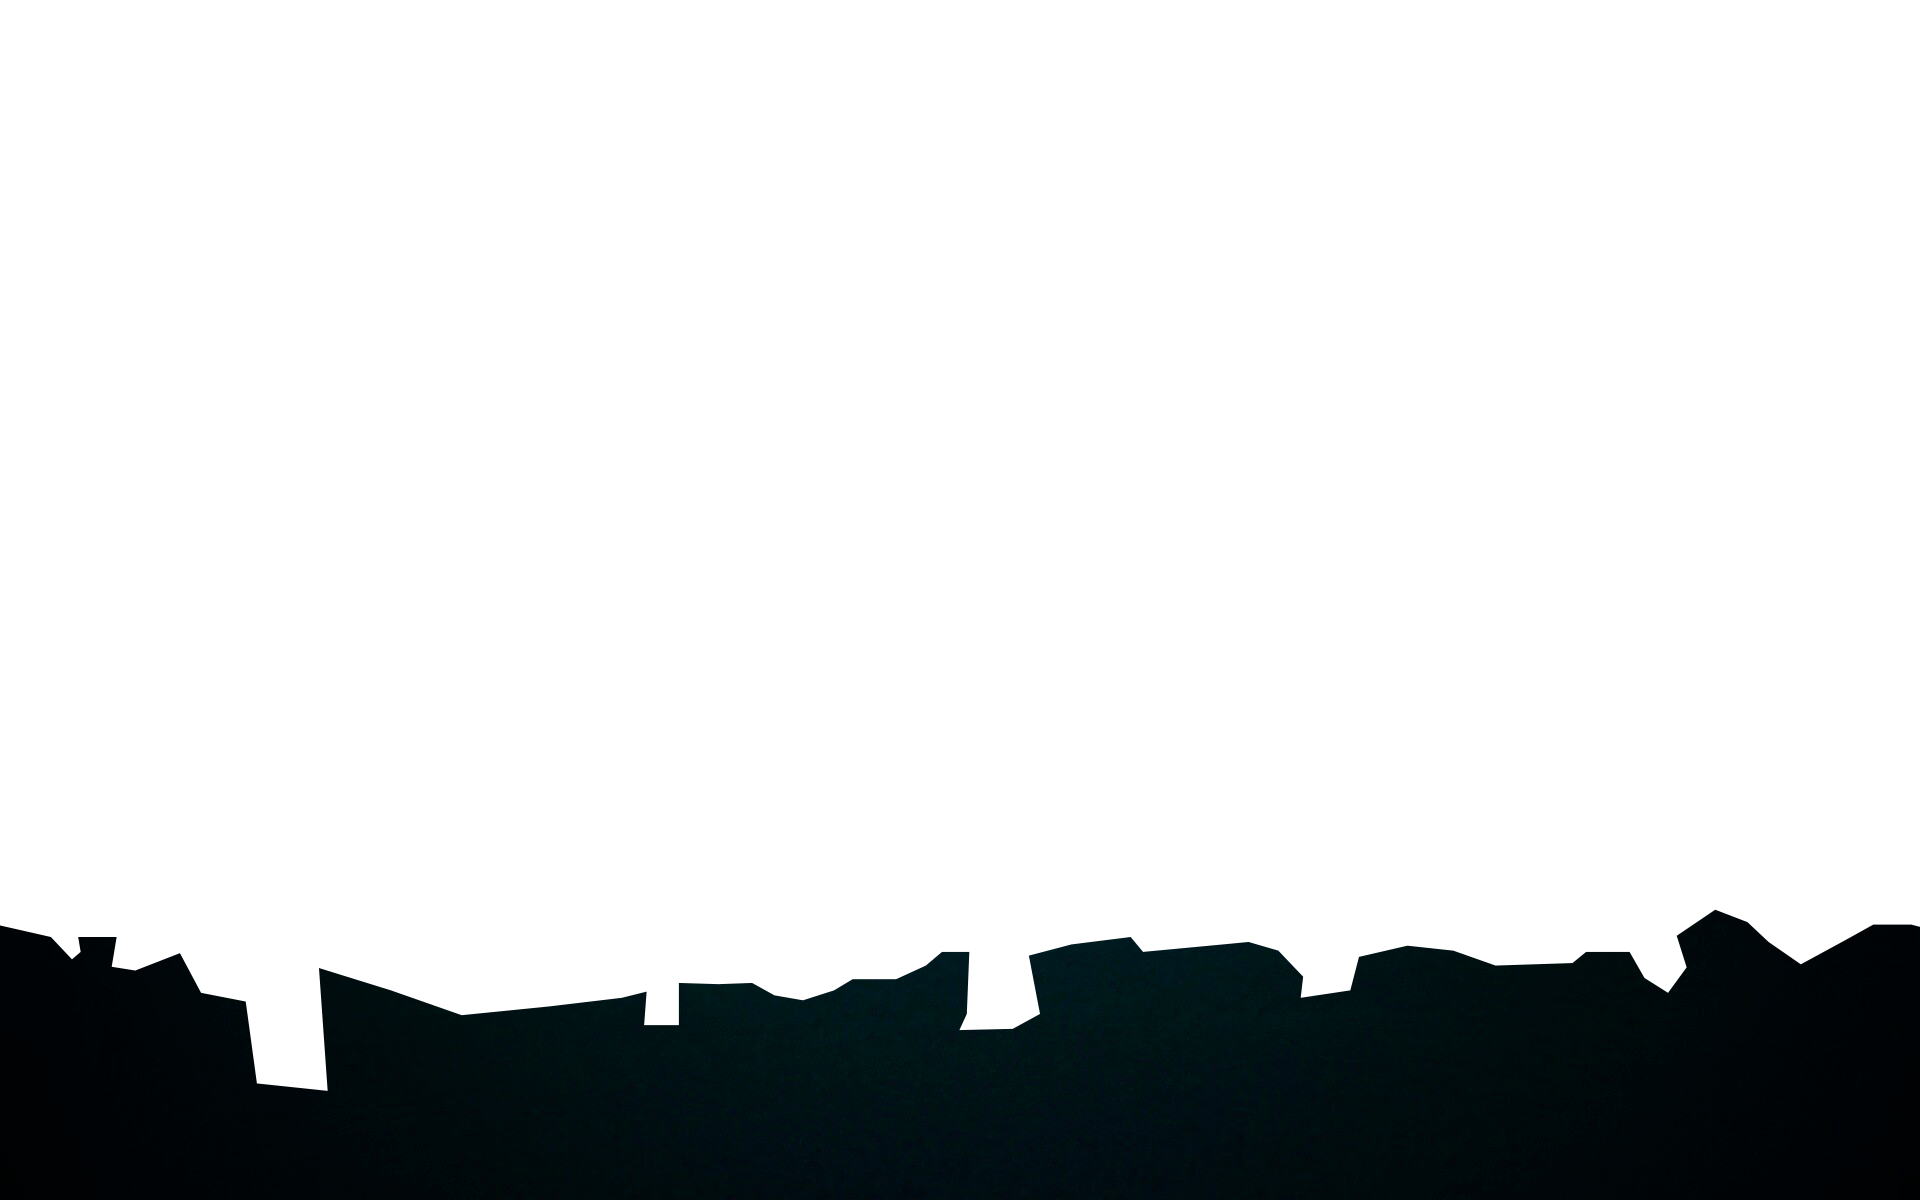
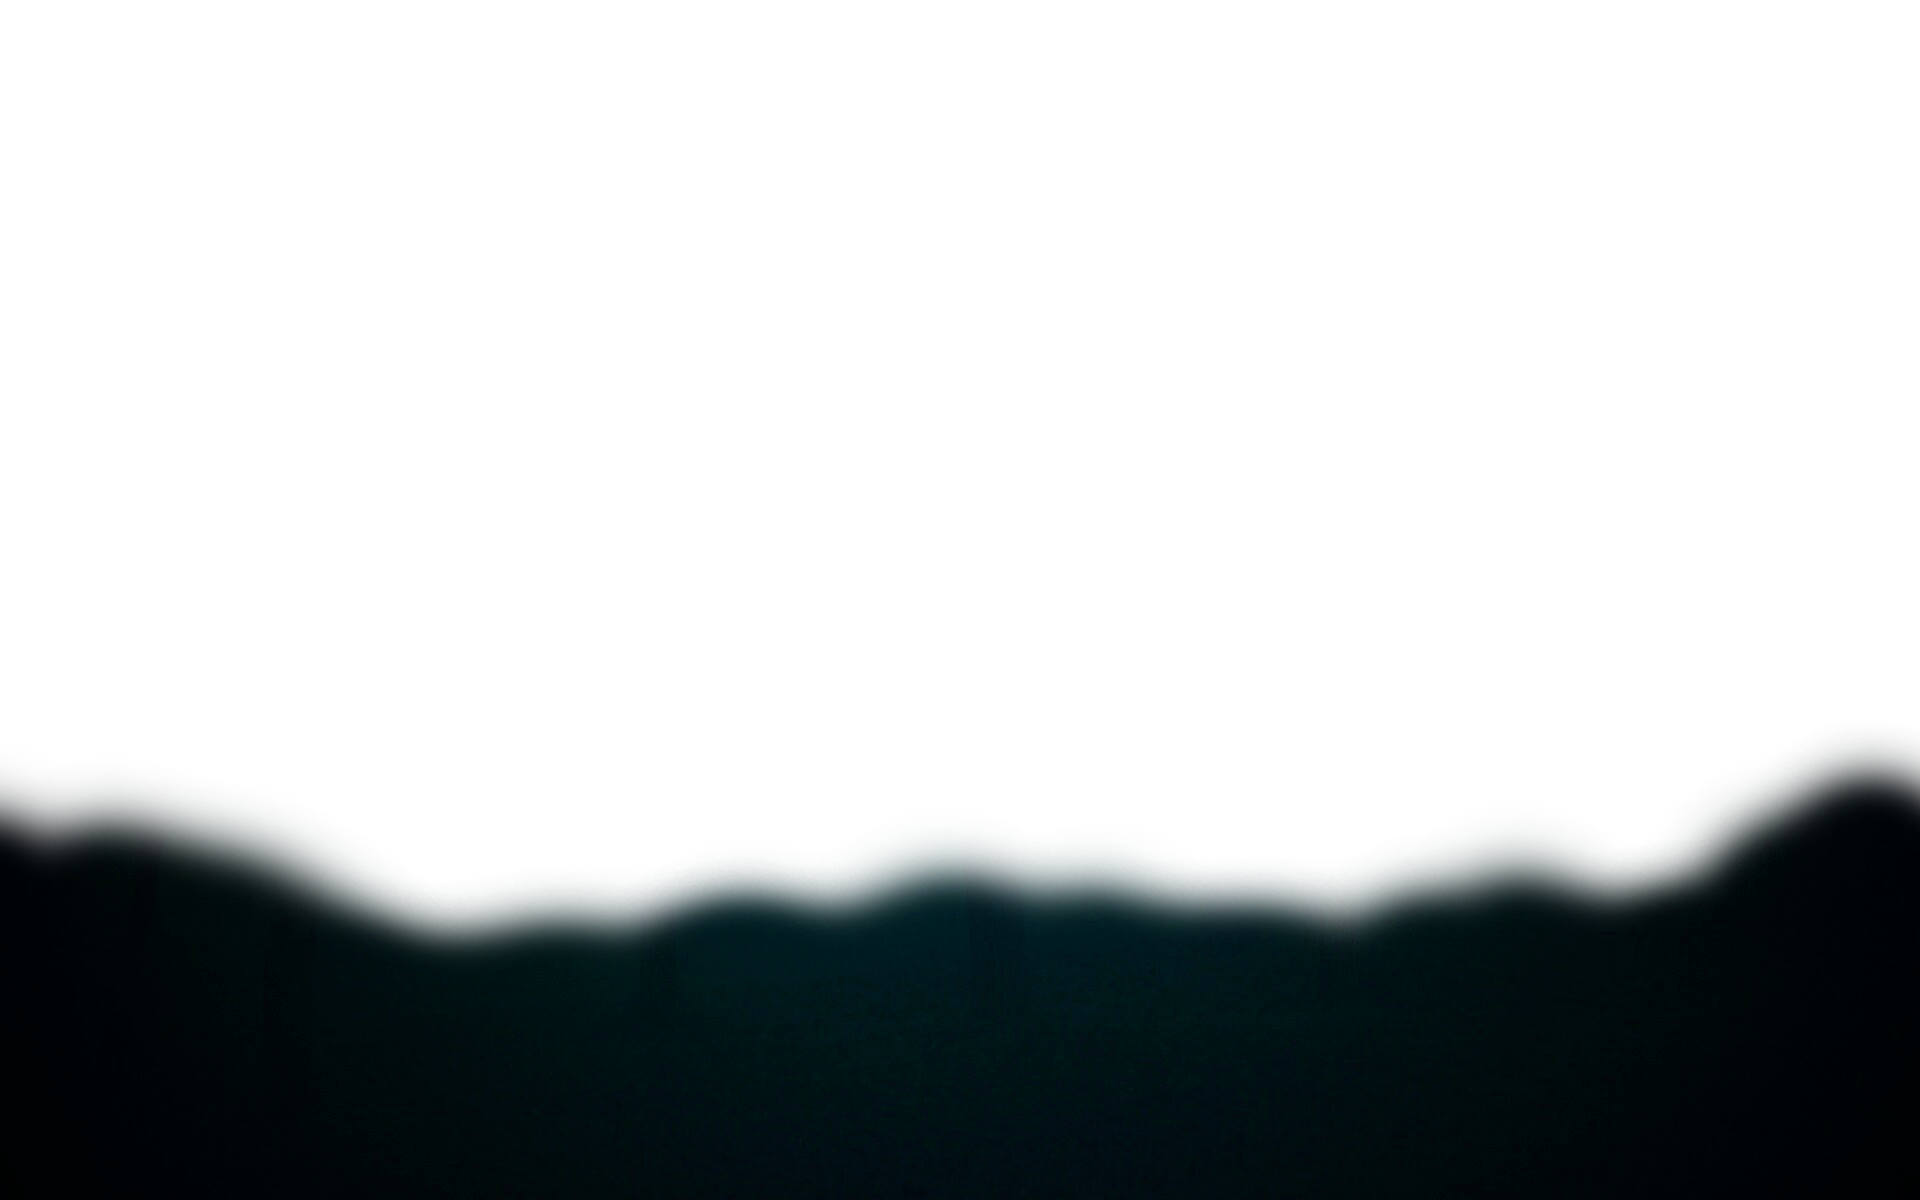
паралакс

Changed region(s): [[0.0, 0.6167, 1.0, 0.925]]

diff --git a/index.html b/index.html
@@ -71,7 +71,7 @@
 
 
 
-    <article class="main-article" style="background-image: url(img/dungeon.jpg);">
+    <article class="main-article" style="background-image: url(img/08.jpg);">
       <div class="main-article__content">
         <h2 class="main-article__header">To be continued</h2>
         <p class="main-article__paragraph"> Кракозябры на сайте — Lorem ipsum dolor sit amet consectetur adipisicing elit. Perspiciatis ducimus optio
@@ -79,33 +79,8 @@
           minus accusantium illo sapiente porro? Lorem, ipsum dolor sit amet consectetur adipisicing elit. Molestias
           dolorem quasi maxime tempora animi quisquam numquam nemo cumque aut id modi minus, impedit laborum. Dolorem
           natus quo laudantium rerum est. Lorem ipsum, dolor sit amet consectetur adipisicing elit. Quisquam molestiae,
-          sit quas debitis adipisci soluta beatae corrupti laudantium architecto perferendis, minima fugit quaerat
-          praesentium unde error repudiandae pariatur quis ex! Lorem ipsum dolor sit amet consectetur adipisicing elit.
-          Nisi est aspernatur, voluptates eos a vel tenetur, nobis porro distinctio harum sit possimus ducimus blanditiis
-          molestiae autem deleniti numquam. Alias, architecto.
-          Atque recusandae cum, delectus eveniet dignissimos, nulla minus magni voluptatem nisi, officiis quibusdam sint
-          autem repellendus ad hic eaque pariatur esse libero repudiandae sed ratione. Hic, culpa. Eos, minus
-          reprehenderit.
-          Nemo, reiciendis at dolorem earum autem qui beatae pariatur, inventore similique illum sapiente? Voluptate
-          nostrum sapiente voluptatum atque incidunt facere dignissimos praesentium dolore repellendus. Voluptas ex illo
-          cum culpa cumque.
-          Omnis iste tempore illum aspernatur blanditiis, suscipit provident culpa quisquam error, sunt deleniti laborum,
-          ratione necessitatibus vitae dolore reprehenderit voluptate nam corporis quos facere sit! Eos sunt ex vero nisi!
-          Eos quia, voluptate fugit cum corrupti ut, provident accusantium consectetur nostrum, dignissimos optio incidunt
-          enim non animi fuga quae ex dolore blanditiis laboriosam a harum accusamus illum esse quis. Sit.
-          Quia, consectetur velit labore dignissimos cumque earum. Aspernatur dignissimos, laboriosam accusantium vel
-          autem, omnis culpa expedita, tempore ipsa ut libero beatae. Velit hic nesciunt expedita natus? Error pariatur
-          est obcaecati?
-          Est hic molestias doloremque eum magnam iste illum, recusandae incidunt culpa tempora animi doloribus deserunt
-          nemo nesciunt quidem eos eveniet voluptates placeat minus maiores perferendis maxime consectetur quo. Minus,
-          deserunt!
-          Consectetur neque saepe minus vero ipsum inventore voluptatem porro perspiciatis, odio nihil ut sit tenetur
-          natus mollitia ullam sint ad cum eos voluptate magni soluta fugiat? Provident numquam aliquam porro.
-          Excepturi recusandae sed blanditiis est similique alias, enim, ex quae doloribus quam nam a dolorum nulla
-          adipisci nesciunt nostrum sit beatae tempora id placeat deserunt nobis. Reprehenderit necessitatibus soluta
-          totam.
-          Dicta commodi repudiandae fugit consequuntur porro eum, fuga pariatur quidem tempore, nulla iure aut corrupti
-          maxime optio soluta ex neque fugiat libero quasi labore cupiditate tempora? Quis soluta recusandae enim.</p>
+
+       </p>
       </div>
       <div class="copy">© Go5ling</div>
     </article>

diff --git a/css/style.scss b/css/style.scss
@@ -20,7 +20,7 @@
 :root {
 	--index: calc(1vw + 1vh);
 	--text: #e7e7e0;
-	--transition: transform .75s cubic-bezier(.075, .5, 0, 1);
+	--transition: transform 2.75s cubic-bezier(.075, .5, 0, 1);
 }
 
 p {
@@ -83,28 +83,30 @@ background:rgb(4, 0, 17);
 
 .main-header {
 	position: relative;
-  height: 100vh;
+  min-height: 100vh;
 display: flex;
 justify-content: center;
 align-items: center;
 margin-top: auto;
+margin-bottom: 50%;
 
-background-image: url('../img/gif.gif');
+background-image: url('../img/gifwhitebluelow.gif');
 background-size: 100% 100vh;
 
-will-change: transform;
 }
 .main-header::after {
 	content: '';
 	position: absolute;
 	z-index: 100;
-	width: 100%;
-	height: calc(var(--index) * 10);
-	background-image: url();
+width: 100%;
+
+	height: calc(var(--index) * 50);
+	background-image: url('../img/switchlayer.png');
 	background-size: cover;
 	background-repeat: no-repeat;
 	background-position: center;
-	bottom: calc(var(--index) * -4.5);
+	bottom: calc(var(--index) * -40);
+
 }
 
 
@@ -126,17 +128,20 @@ will-change: transform;
 	will-change: transform;
 	z-index: 2;
 	transition: var(--transition);
-  opacity: 70%;
+
 }
 .layers__base {
 	transform: translate3d(0, calc(var(--scrollTop) / 1.6), 0);
 	z-index: 0;
+	opacity: 85%;
 }
 .layers__middle {
 	transform: translate3d(0, calc(var(--scrollTop) / 2.5), 0);
+	opacity: 40%;
 }
 .layers__front {
-	transform: translate3d(0, calc(var(--scrollTop) / 5.7), 0);
+	transform: translate3d(0, calc(var(--scrollTop) / 3.7), 0);
+	opacity: 80%;
 
 
 }
@@ -147,11 +152,6 @@ will-change: transform;
 	z-index: 1;
 	transform: translate3d(0, calc(var(--scrollTop) / 2), 0);
 	transition: var(--transition);
-	will-change: transform;
-	text-transform: uppercase;
-	font-weight: 900;
-	color: var(--text);
-	text-shadow: 0 0 15px #9d822b;
 }
 .layers__title {
 	font-size: calc(var(--index) * 2.65);
@@ -163,21 +163,23 @@ will-change: transform;
 	margin-top: calc(var(--index) * -.75);
 }
 .main-article {
-	--main-article-transform: translate3d(0, calc(var(--scrollTop) / -7.5), 0);
+	--main-article-transform: translate3d(0, calc(var(--scrollTop) / -5.9), 0);
+
 	min-height: 100vh;
-	background-size: cover;
+	background-size: cover ;
 	background-position: center;
-	color: var(--text);
 	display: flex;
 	justify-content: center;
 	align-items: center;
 	position: relative;
 	text-align: center;
+
 	/* Update: */
-	top: -1px;
+	top: 1px;
 	z-index: 10;
 }
 .main-article__header {
+  margin-top:  calc(var(--index) * 19);
 	text-transform: uppercase;
 	font-size: calc(var(--index) * 1.8);
 	letter-spacing: calc(var(--index) / 7.5);
@@ -186,7 +188,7 @@ will-change: transform;
 	will-change: transform;
 }
 .main-article__paragraph {
-	max-width: calc(var(--index) * 30);
+	max-width: calc(var(--index) * 40);
 	font-size: calc(var(--index) * .9);
 	margin-top: calc(var(--index) / 1.25);
 	transform: var(--main-article-transform);

diff --git a/css/style.css b/css/style.css
@@ -8,7 +8,7 @@
 :root {
   --index: calc(1vw + 1vh);
   --text: #e7e7e0;
-  --transition: transform .75s cubic-bezier(.075, .5, 0, 1);
+  --transition: transform 2.75s cubic-bezier(.075, .5, 0, 1);
 }
 
 p {
@@ -59,14 +59,14 @@ body {
 /* Главная */
 .main-header {
   position: relative;
-  height: 100vh;
+  min-height: 100vh;
   display: flex;
   justify-content: center;
   align-items: center;
   margin-top: auto;
-  background-image: url("../img/gif.gif");
+  margin-bottom: 50%;
+  background-image: url("../img/gifwhitebluelow.gif");
   background-size: 100% 100vh;
-  will-change: transform;
 }
 
 .main-header::after {
@@ -74,12 +74,12 @@ body {
   position: absolute;
   z-index: 100;
   width: 100%;
-  height: calc(var(--index) * 10);
-  background-image: url();
+  height: calc(var(--index) * 50);
+  background-image: url("../img/switchlayer.png");
   background-size: cover;
   background-repeat: no-repeat;
   background-position: center;
-  bottom: calc(var(--index) * -4.5);
+  bottom: calc(var(--index) * -40);
 }
 
 .layers {
@@ -101,31 +101,28 @@ body {
   will-change: transform;
   z-index: 2;
   transition: var(--transition);
-  opacity: 70%;
 }
 
 .layers__base {
   transform: translate3d(0, calc(var(--scrollTop) / 1.6), 0);
   z-index: 0;
+  opacity: 85%;
 }
 
 .layers__middle {
   transform: translate3d(0, calc(var(--scrollTop) / 2.5), 0);
+  opacity: 40%;
 }
 
 .layers__front {
-  transform: translate3d(0, calc(var(--scrollTop) / 5.7), 0);
+  transform: translate3d(0, calc(var(--scrollTop) / 3.7), 0);
+  opacity: 80%;
 }
 
 .layer__header {
   z-index: 1;
   transform: translate3d(0, calc(var(--scrollTop) / 2), 0);
   transition: var(--transition);
-  will-change: transform;
-  text-transform: uppercase;
-  font-weight: 900;
-  color: var(--text);
-  text-shadow: 0 0 15px #9d822b;
 }
 
 .layers__title {
@@ -140,22 +137,22 @@ body {
 }
 
 .main-article {
-  --main-article-transform: translate3d(0, calc(var(--scrollTop) / -7.5), 0);
+  --main-article-transform: translate3d(0, calc(var(--scrollTop) / -5.9), 0);
   min-height: 100vh;
   background-size: cover;
   background-position: center;
-  color: var(--text);
   display: flex;
   justify-content: center;
   align-items: center;
   position: relative;
   text-align: center;
   /* Update: */
-  top: -1px;
+  top: 1px;
   z-index: 10;
 }
 
 .main-article__header {
+  margin-top: calc(var(--index) * 19);
   text-transform: uppercase;
   font-size: calc(var(--index) * 1.8);
   letter-spacing: calc(var(--index) / 7.5);
@@ -165,7 +162,7 @@ body {
 }
 
 .main-article__paragraph {
-  max-width: calc(var(--index) * 30);
+  max-width: calc(var(--index) * 40);
   font-size: calc(var(--index) * 0.9);
   margin-top: calc(var(--index) / 1.25);
   transform: var(--main-article-transform);
